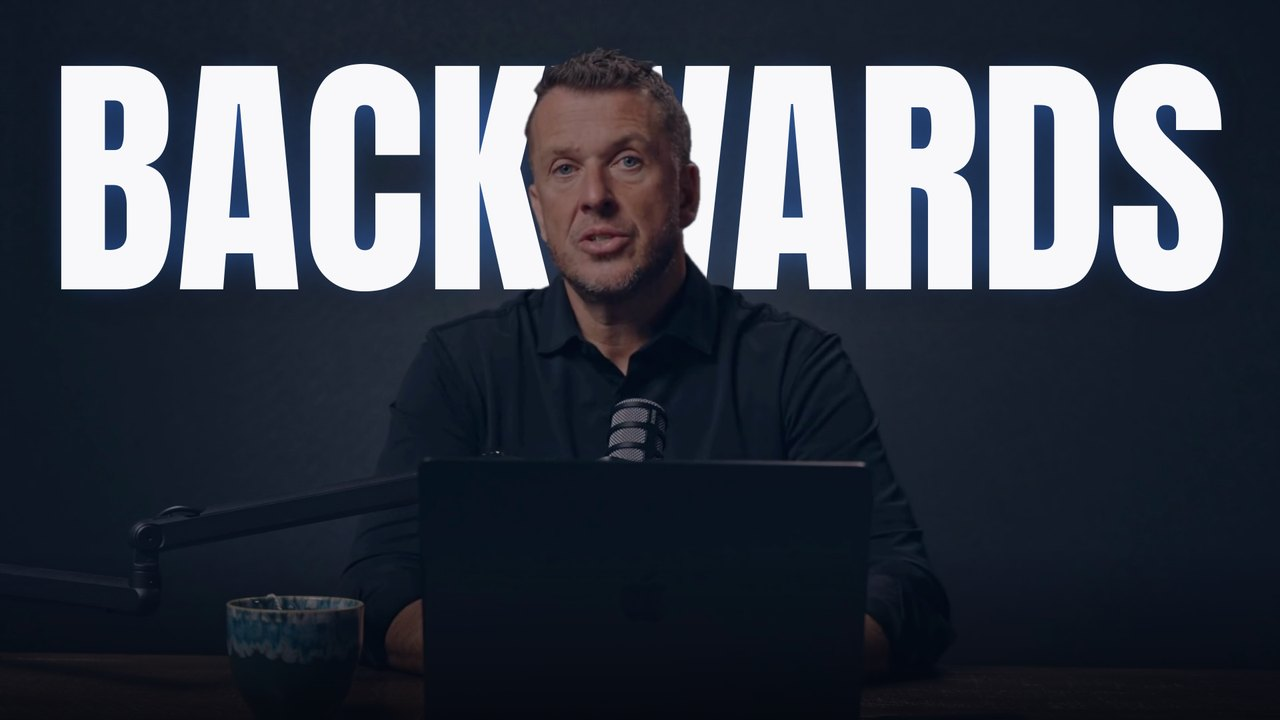
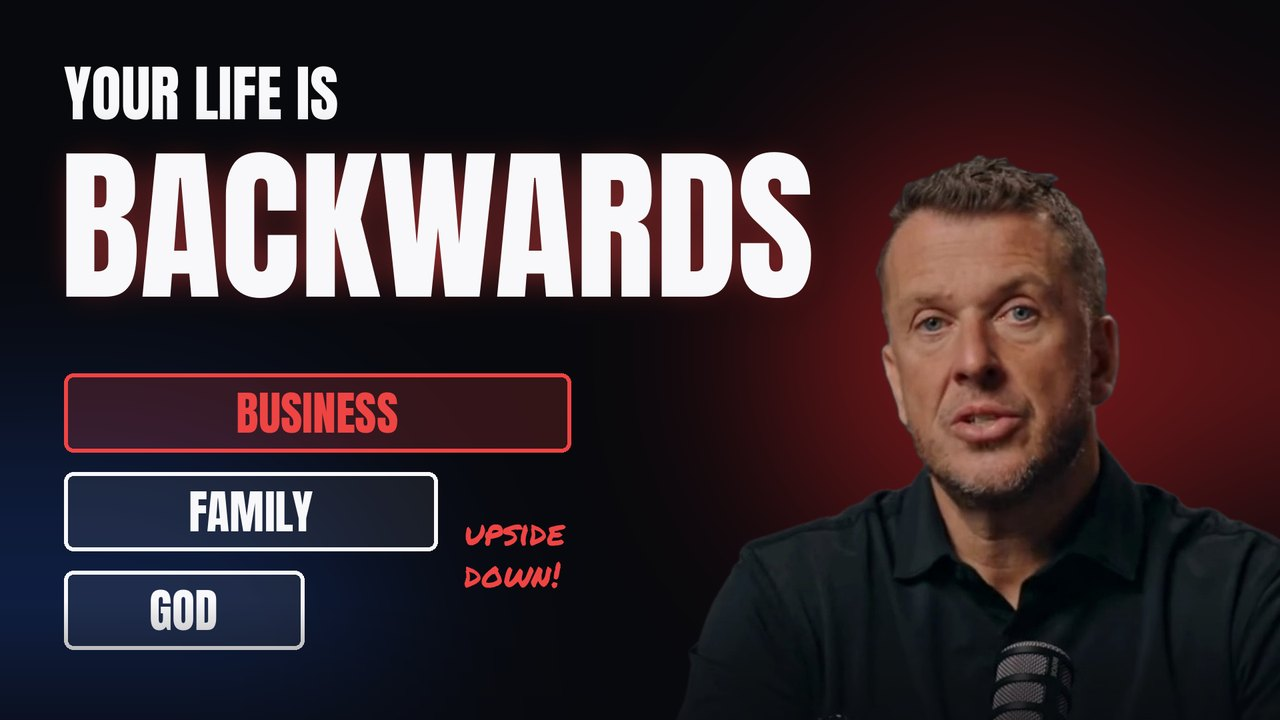
Confirmation v2: new thumbnails, smaller cards, scroll arrow, FTC disclaimer
- New, clearly different thumbnails: Day 1 dark/red 'Your life is
  BACKWARDS' with the upside-down Business/Family/God stack; Day 2 a
  whiteboard with the Kings OS (Faith/Family/Finance OS -> One Life)
  drawn in marker.
- Session cards ~22% smaller; LIVE / 90 min badge moved under the image.
- Bouncing arrow between the session cards and 'Before Day 1'.
- Google button now just says 'Add to Calendar' (VIP: 'Add VIP hours
  to Calendar').
- Comprehensive earnings/results disclaimer, advice disclaimer, material
  connection disclosure and Meta notice in the footer of all three pages.

diff --git a/event/confirmed.html b/event/confirmed.html
@@ -39,11 +39,9 @@
         <article class="session">
           <div class="session-thumb">
             <img src="img/day1-thumb.jpg" alt="Day 1: Designed Backwards, live with Dan Romer" />
-            <span class="live-badge"><i></i>Live</span>
-            <span class="len-badge">~90 min</span>
           </div>
           <div class="session-body">
-            <span class="session-day">Day 1</span>
+            <div class="session-top"><span class="session-day">Day 1</span><span class="live-badge"><i></i>Live · 90 min</span></div>
             <h3 class="h3">Designed Backwards</h3>
             <div class="session-host"><img src="img/dan-headshot.jpg" alt="" /><span>Dan Romer</span></div>
             <div class="session-when">
@@ -55,11 +53,9 @@
         <article class="session">
           <div class="session-thumb">
             <img src="img/day2-thumb.jpg" alt="Day 2: Installing the Operating System, live with Dan Romer" />
-            <span class="live-badge"><i></i>Live</span>
-            <span class="len-badge">~90 min</span>
           </div>
           <div class="session-body">
-            <span class="session-day">Day 2 · Bring your wife</span>
+            <div class="session-top"><span class="session-day">Day 2 · Bring your wife</span><span class="live-badge"><i></i>Live · 90 min</span></div>
             <h3 class="h3">Installing the Operating System</h3>
             <div class="session-host"><img src="img/dan-headshot.jpg" alt="" /><span>Dan Romer</span></div>
             <div class="session-when">
@@ -71,10 +67,11 @@
       </div>
       <div class="card when-row highlight vip-only vip-row"><h3 class="h4">VIP hour with Dan</h3><span class="t">Both days · <span data-fill="vip-time">9 AM PT</span></span></div>
       <p class="tz-line">Dates and times above are shown in your time zone (<span data-fill="tz-name">Pacific Time</span>). Fixed time: <strong>10 AM Pacific / 1 PM Eastern</strong><span class="vip-only"> (VIP hour 9 AM Pacific / 12 PM Eastern)</span>.</p>
+      <a class="scroll-cue" href="#next-steps" aria-label="Scroll to your next steps"><svg width="28" height="28" viewBox="0 0 24 24" fill="none" stroke="currentColor" stroke-width="2.4" stroke-linecap="round" stroke-linejoin="round" aria-hidden="true"><polyline points="6 9 12 15 18 9"/></svg></a>
     </div>
   </header>
 
-  <section class="section alt">
+  <section class="section alt" id="next-steps">
     <div class="container narrow">
       <div class="section-head">
         <span class="label">Before Day 1</span>
@@ -87,11 +84,11 @@
             <h3 class="h4">Put both days on your calendar</h3>
             <p>Block it like a meeting you can't move.<span class="vip-only"> Your VIP hours are included too.</span></p>
             <div class="actions">
-              <a class="btn btn-cal btn-sm" data-gcal="both" href="#" target="_blank" rel="noopener"><img src="img/gcal.png" alt="" />Add both days to Google Calendar</a>
-              <a class="btn btn-cal btn-sm vip-only-inline" data-gcal="vip" href="#" target="_blank" rel="noopener"><img src="img/gcal.png" alt="" />Add VIP hours to Google Calendar</a>
+              <a class="btn btn-cal btn-sm" data-gcal="both" href="#" target="_blank" rel="noopener"><img src="img/gcal.png" alt="" />Add to Calendar</a>
+              <a class="btn btn-cal btn-sm vip-only-inline" data-gcal="vip" href="#" target="_blank" rel="noopener"><img src="img/gcal.png" alt="" />Add VIP hours to Calendar</a>
               <a class="btn btn-outline btn-sm" data-ics href="designed-backwards.ics"><svg width="15" height="15" viewBox="0 0 24 24" fill="none" stroke="currentColor" stroke-width="2" stroke-linecap="round" stroke-linejoin="round" aria-hidden="true"><rect x="3" y="4" width="18" height="18" rx="2"/><line x1="16" y1="2" x2="16" y2="6"/><line x1="8" y1="2" x2="8" y2="6"/><line x1="3" y1="10" x2="21" y2="10"/></svg>Apple / Outlook</a>
             </div>
-            <p class="cal-help">Apple / Outlook: on a phone it opens your calendar app; on a computer it downloads a file. Open that file and both days are added.</p>
+            <p class="cal-help">"Add to Calendar" adds both days to Google Calendar. Apple / Outlook: on a phone it opens your calendar app; on a computer it downloads a file. Open that file and both days are added.</p>
           </div>
         </div>
         <div class="card step-card">
@@ -129,6 +126,12 @@
     <div class="container">
       <img src="img/logo.png" alt="Order of Kings" />
       <p>© 2026 Order of Kings · <a href="https://orderofkings.org">orderofkings.org</a></p>
+      <div class="disc">
+        <p><strong>Earnings and results disclaimer.</strong> Order of Kings and Dan Romer make no promise or guarantee of income, earnings, business growth, savings, or any other financial, personal, marriage, family or spiritual result from this workshop, the VIP hours, the scorecard, or any program offered. Any examples, stories, member experiences or results mentioned are illustrations only. They are not typical, are not a promise of what you will achieve, and should not be relied on as such. Your results depend on many factors, including your background, experience, effort, business, industry, market conditions and personal circumstances, and you may see no results at all. Every business carries risk, and any decision you make based on what you learn is your own responsibility.</p>
+        <p>Nothing on this site or in the workshop is financial, investment, tax, legal, medical, psychological or counseling advice. Please speak with a qualified professional about your situation. Scripture and spiritual teaching are shared as encouragement and teaching, not as a promise of any particular financial or business outcome.</p>
+        <p><strong>Disclosure.</strong> The workshop is free. During it, Dan will present a paid program, the Order of Kings, and the company receives payment if you choose to join. The optional VIP upgrade is a paid product. Members who share their experiences have not been paid for their statements unless stated.</p>
+        <p>This site is not part of the Facebook website or Meta Platforms, Inc., and is not endorsed by Facebook or Meta in any way. FACEBOOK is a trademark of Meta Platforms, Inc.</p>
+      </div>
     </div>
   </footer>
 

diff --git a/event/index.html b/event/index.html
@@ -340,7 +340,12 @@
     <div class="container">
       <img src="img/logo.png" alt="Order of Kings" />
       <p>© 2026 Order of Kings · Questions? <a data-support-link href="mailto:support@orderofkings.org" data-fill="support-email">support@orderofkings.org</a></p>
-      <p class="disc">This workshop is for educational purposes. Results vary. Nothing here is a promise of income, business results or personal outcomes. This site is not part of Facebook or Meta Platforms, Inc.</p>
+      <div class="disc">
+        <p><strong>Earnings and results disclaimer.</strong> Order of Kings and Dan Romer make no promise or guarantee of income, earnings, business growth, savings, or any other financial, personal, marriage, family or spiritual result from this workshop, the VIP hours, the scorecard, or any program offered. Any examples, stories, member experiences or results mentioned are illustrations only. They are not typical, are not a promise of what you will achieve, and should not be relied on as such. Your results depend on many factors, including your background, experience, effort, business, industry, market conditions and personal circumstances, and you may see no results at all. Every business carries risk, and any decision you make based on what you learn is your own responsibility.</p>
+        <p>Nothing on this site or in the workshop is financial, investment, tax, legal, medical, psychological or counseling advice. Please speak with a qualified professional about your situation. Scripture and spiritual teaching are shared as encouragement and teaching, not as a promise of any particular financial or business outcome.</p>
+        <p><strong>Disclosure.</strong> The workshop is free. During it, Dan will present a paid program, the Order of Kings, and the company receives payment if you choose to join. The optional VIP upgrade is a paid product. Members who share their experiences have not been paid for their statements unless stated.</p>
+        <p>This site is not part of the Facebook website or Meta Platforms, Inc., and is not endorsed by Facebook or Meta in any way. FACEBOOK is a trademark of Meta Platforms, Inc.</p>
+      </div>
     </div>
   </footer>
 

diff --git a/event/vip.html b/event/vip.html
@@ -84,6 +84,12 @@
     <div class="container">
       <img src="img/logo.png" alt="Order of Kings" />
       <p>© 2026 Order of Kings · Questions? <a data-support-link href="mailto:support@orderofkings.org" data-fill="support-email">support@orderofkings.org</a></p>
+      <div class="disc">
+        <p><strong>Earnings and results disclaimer.</strong> Order of Kings and Dan Romer make no promise or guarantee of income, earnings, business growth, savings, or any other financial, personal, marriage, family or spiritual result from this workshop, the VIP hours, the scorecard, or any program offered. Any examples, stories, member experiences or results mentioned are illustrations only. They are not typical, are not a promise of what you will achieve, and should not be relied on as such. Your results depend on many factors, including your background, experience, effort, business, industry, market conditions and personal circumstances, and you may see no results at all. Every business carries risk, and any decision you make based on what you learn is your own responsibility.</p>
+        <p>Nothing on this site or in the workshop is financial, investment, tax, legal, medical, psychological or counseling advice. Please speak with a qualified professional about your situation. Scripture and spiritual teaching are shared as encouragement and teaching, not as a promise of any particular financial or business outcome.</p>
+        <p><strong>Disclosure.</strong> The workshop is free. During it, Dan will present a paid program, the Order of Kings, and the company receives payment if you choose to join. The optional VIP upgrade is a paid product. Members who share their experiences have not been paid for their statements unless stated.</p>
+        <p>This site is not part of the Facebook website or Meta Platforms, Inc., and is not endorsed by Facebook or Meta in any way. FACEBOOK is a trademark of Meta Platforms, Inc.</p>
+      </div>
     </div>
   </footer>
 

diff --git a/event/event.css b/event/event.css
@@ -463,3 +463,27 @@ strong { font-weight: 600; color: var(--white); }
   .step-card .actions .btn { width: 100%; white-space: normal; text-align: center; }
 }
 .live-badge { top: auto; bottom: 12px; left: 12px; }
+
+/* Confirmation: smaller session cards */
+.sessions { max-width: 760px; gap: 18px; }
+.vip-row, .tz-line { max-width: 760px; }
+.session-body { padding: 14px 16px 16px; }
+.session-body .h3 { font-size: 18px; margin: 3px 0 10px; }
+.session-host { font-size: 14px; }
+.session-host img { width: 28px; height: 28px; }
+.session-when { margin-top: 12px; padding-top: 12px; font-size: 13.5px; }
+
+/* Bouncing scroll arrow under the sessions */
+.scroll-cue { display: flex; width: 52px; height: 52px; margin: 26px auto 0; align-items: center; justify-content: center; border-radius: 50%; border: 1px solid rgba(59,130,246,0.45); background: var(--blue-dim); color: var(--blue-light); animation: cueBounce 1.8s ease-in-out infinite; }
+.scroll-cue:hover { background: rgba(37,99,235,0.2); }
+@keyframes cueBounce { 0%,100% { transform: translateY(0); } 50% { transform: translateY(10px); } }
+@media (prefers-reduced-motion: reduce) { .scroll-cue { animation: none; } }
+
+/* Footer disclaimer */
+.footer .disc { max-width: 820px; margin: 18px auto 0; text-align: left; }
+.footer .disc p { font-size: 11px; line-height: 1.6; color: var(--white-20); margin-bottom: 8px; }
+.footer .disc strong { color: var(--white-40); font-weight: 600; }
+/* LIVE badge lives in the card body so it never covers the thumbnail */
+.session-top { display: flex; justify-content: space-between; align-items: center; gap: 8px; }
+.session-top .live-badge { position: static; padding: 3px 8px; font-size: 10px; border-radius: 5px; letter-spacing: 0.1em; }
+.session-top .live-badge { white-space: nowrap; flex-shrink: 0; }
